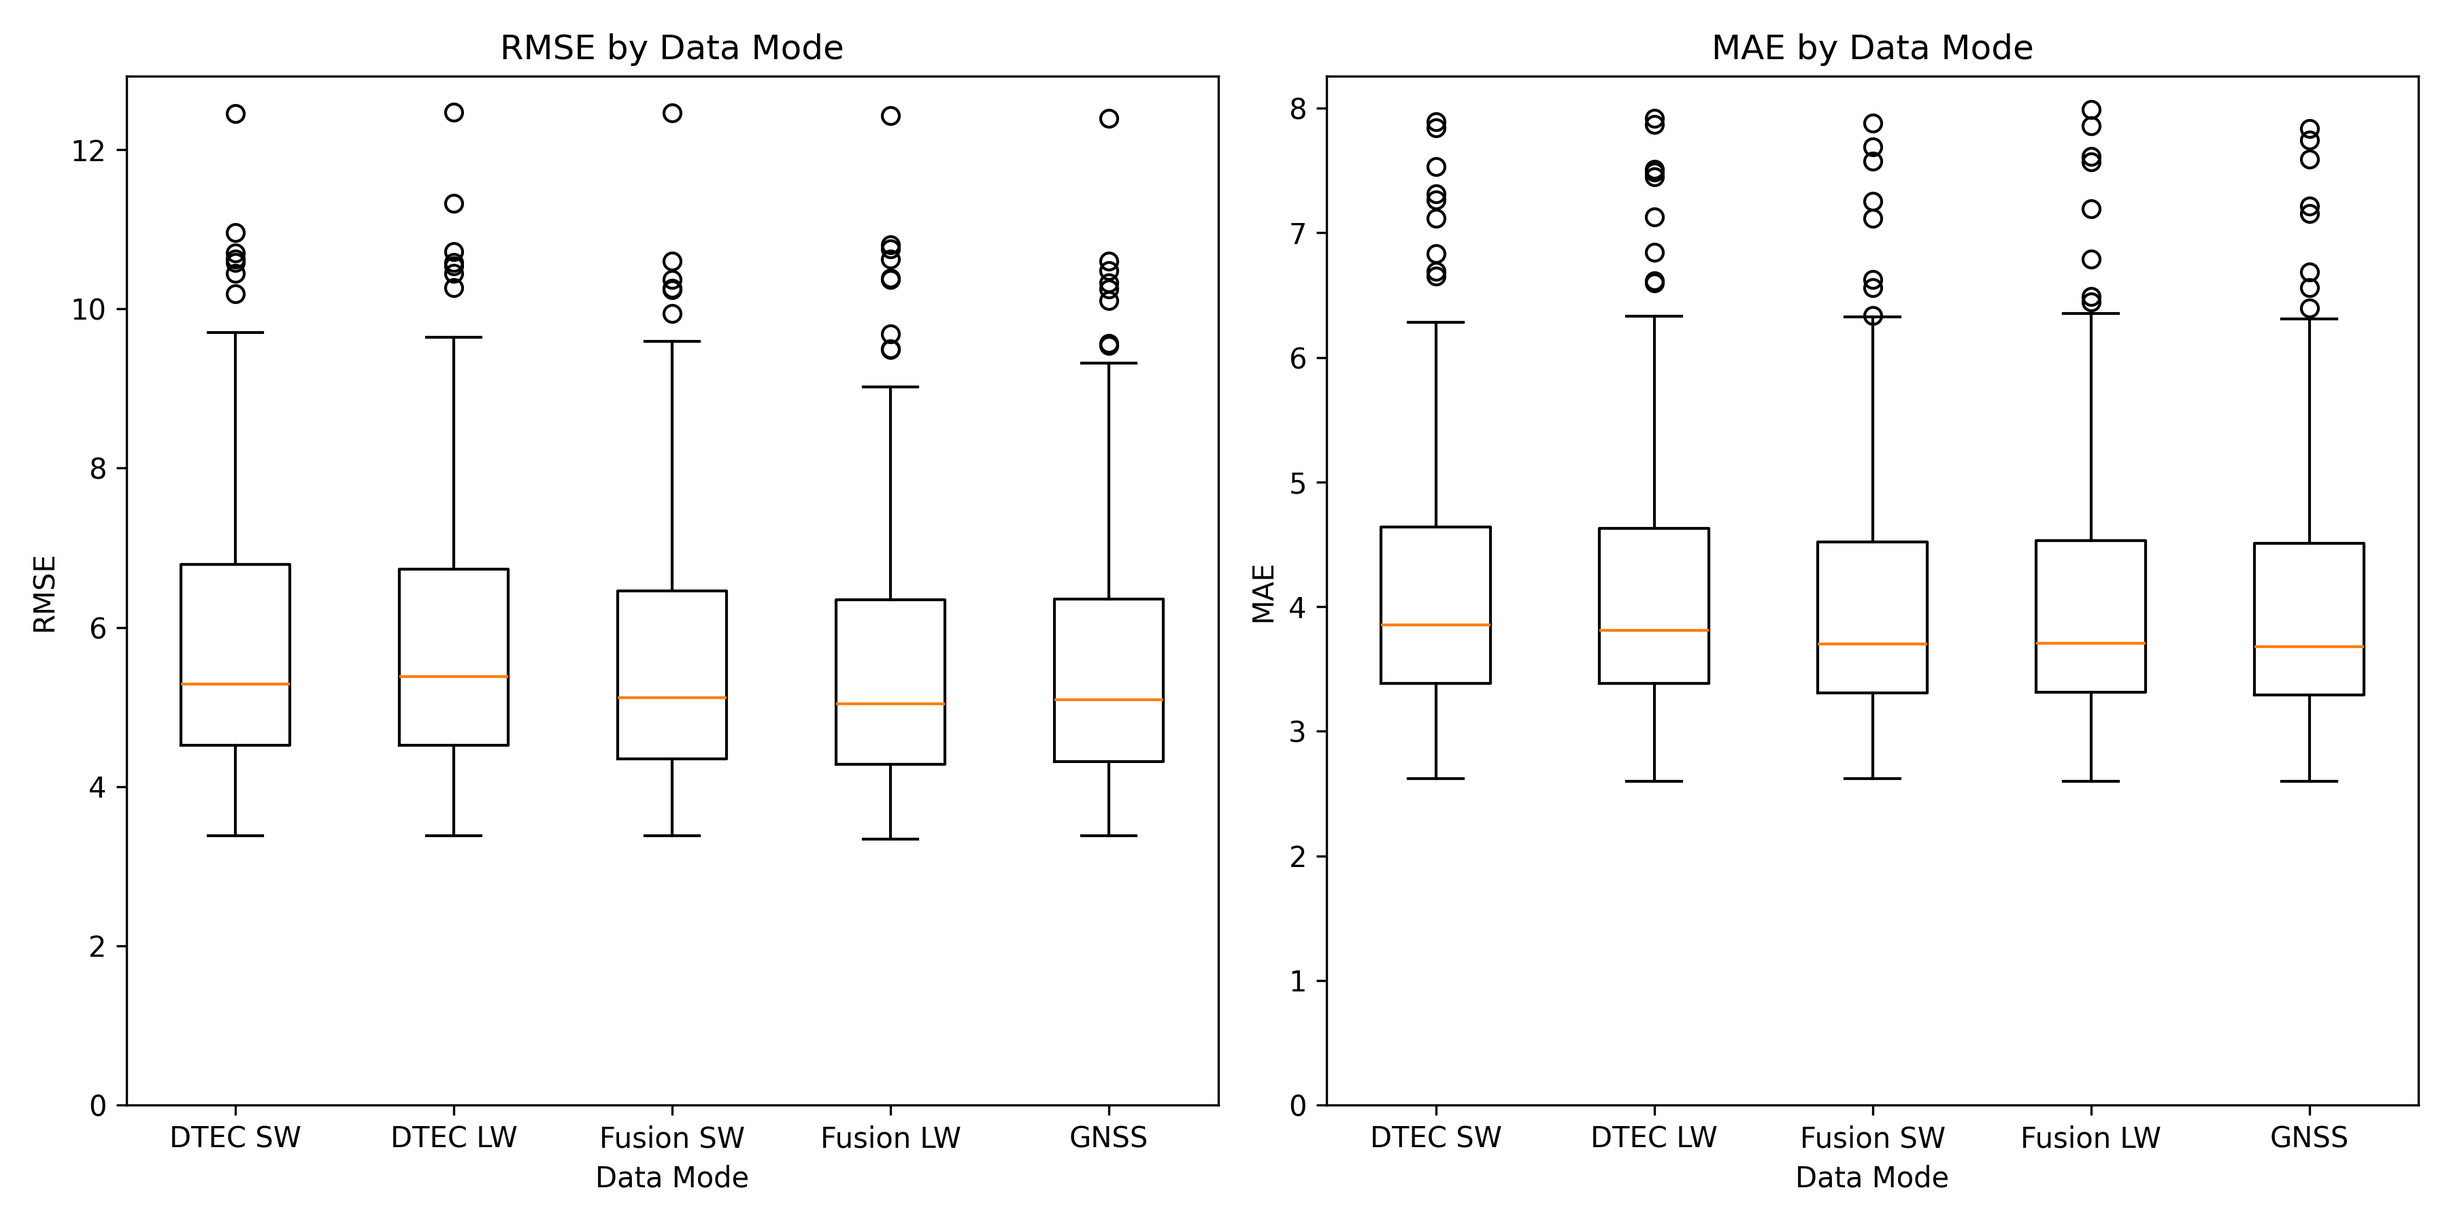
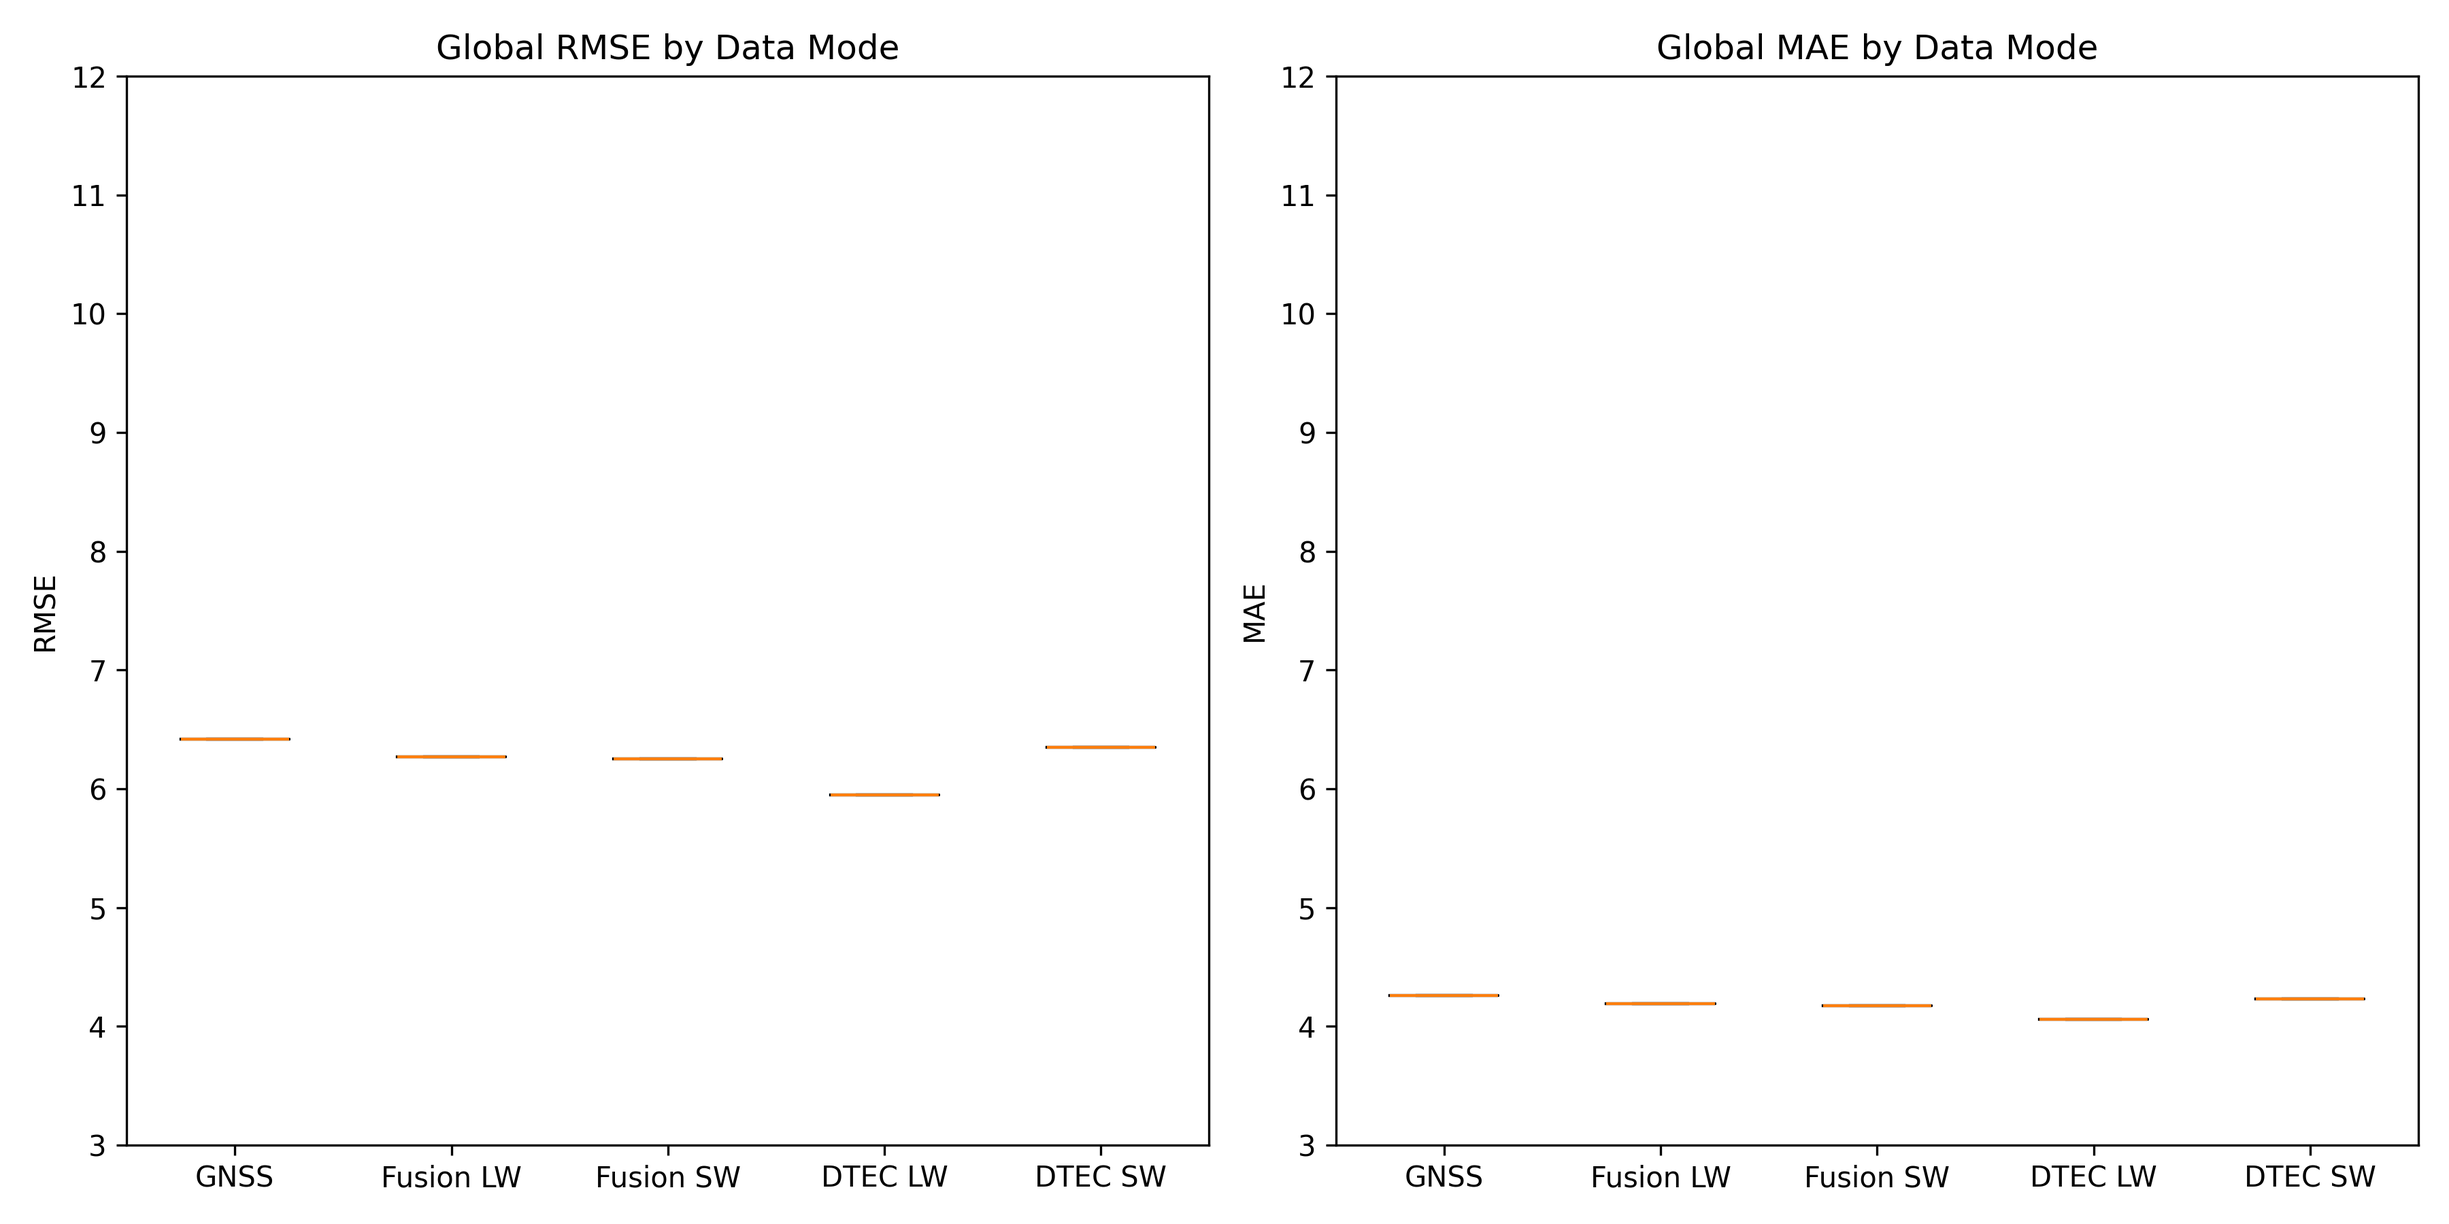
fixed evalwith SA and included Kokee evaluation

diff --git a/scripts/eval_SA_results.py b/scripts/eval_SA_results.py
@@ -3,6 +3,7 @@ import os
 import yaml
 import pandas as pd
 import numpy as np
+import re
 
 import matplotlib.pyplot as plt
 #import seaborn as sns
@@ -13,11 +14,40 @@ def read_config_file(folder, file_name):
         content = yaml.safe_load(file)
     return content
 
-def read_SA_csv(folder, file_name):
+def read_SA_metrics(folder, file_name):
+    """
+    Parse a metrics.txt with:
+      GLOBAL RMSE: <value>
+      GLOBAL MAE: <value>
+    PER-STATION METRICS (within <radius> km):
+        StationName: RMSE=<v>, MAE=<v>, N=<v>
+    Returns dict: 'global_rmse', 'global_mae', '<station>_rmse', '<station>_mae', '<station>_n'.
+    """
     file_path = os.path.join(folder, file_name)
-    with open(file_path, 'r') as file:
-        content = file.readlines()
-    return content
+    metrics = {}
+    with open(file_path, 'r') as f:
+        lines = [ln.strip() for ln in f if ln.strip()]
+
+    # globals
+    for ln in lines:
+        if ln.startswith('GLOBAL RMSE'):
+            metrics['global_rmse'] = float(ln.split(':',1)[1])
+        elif ln.startswith('GLOBAL MAE'):
+            metrics['global_mae'] = float(ln.split(':',1)[1])
+
+    # per-station
+    station_re = re.compile(r"^(\w+):\s*RMSE=([0-9.]+),\s*MAE=([0-9.]+),\s*N=(\d+)")
+    stations = []
+    for ln in lines:
+        m = station_re.match(ln)
+        if m:
+            name, rmse, mae, n = m.groups()
+            key = name.lower()
+            stations.append(key)
+            metrics[f"{key}_rmse"] = float(rmse)
+            metrics[f"{key}_mae"]  = float(mae)
+            metrics[f"{key}_n"]    = int(n)
+    return metrics, stations
 
 def read_experiment(experiment_folder, experiment_name):
 
@@ -25,29 +55,22 @@ def read_experiment(experiment_folder, experiment_name):
     SA_results_file_path = os.path.join(experiment_name, 'SA_plots', 'metrics.txt')
 
     config = read_config_file(experiment_folder, config_file_path)
-    SA_results = read_SA_csv(experiment_folder, SA_results_file_path)
-    SA_results = [line.split(':') for line in SA_results]
+    SA_results, stations = read_SA_metrics(experiment_folder, SA_results_file_path)
 
     df_row = pd.DataFrame({f"{key}_{subkey}" if isinstance(subdict, dict) else key: [value] 
                            for key, subdict in config.items() 
                            for subkey, value in (subdict.items() if isinstance(subdict, dict) else [(None, subdict)])})
 
-    df_row["RMSE"] = SA_results[0][1]
-    df_row["MAE"] = SA_results[1][1]
-
-    
+    df_row["global_RMSE"] = SA_results["global_rmse"]
+    df_row["global_MAE"] = SA_results["global_mae"]
+    for station in stations:
+        df_row[f"{station}_RMSE"] = SA_results.get(f"{station}_rmse", None)
+        df_row[f"{station}_MAE"] = SA_results.get(f"{station}_mae", None)
+        df_row[f"{station}_N"] = SA_results.get(f"{station}_n", 0)
 
     return df_row
 
-def filter_region(df, center_lat, center_lon, radius_deg):
-    return df[
-        (df.latitude  >= center_lat - radius_deg) &
-        (df.latitude  <= center_lat + radius_deg) &
-        (df.longitude >= center_lon - radius_deg) &
-        (df.longitude <= center_lon + radius_deg)
-    ]
-
-def evaluate(df):
+def evaluate_old(df):
     print("Number of experiments processed in total: ", len(df))
     # Define your grouping columns
     group_columns = ['data_mode', 'training_vlbi_loss_weight', 'training_vlbi_sampling_weight']
@@ -79,27 +102,27 @@ def evaluate(df):
     print("Number of experiments where all 5 scenarios were executed successfully: ", len(df))
 
     # Convert RMSE and MAE to numeric
-    df["RMSE"] = pd.to_numeric(df["RMSE"], errors='coerce')
-    df["MAE"] = pd.to_numeric(df["MAE"], errors='coerce')
+    df["global RMSE"] = pd.to_numeric(df["global RMSE"], errors='coerce')
+    df["global MAE"] = pd.to_numeric(df["global MAE"], errors='coerce')
 
     df_mode = df.groupby(['data_mode', 'training_vlbi_loss_weight', 'training_vlbi_sampling_weight'])
     
     # Define consistent bins and range for RMSE and MAE
-    bins_rmse = np.linspace(df['RMSE'].min(), df['RMSE'].max(), 20)
-    bins_mae = np.linspace(df['MAE'].min(), df['MAE'].max(), 20)
+    bins_rmse = np.linspace(df['global RMSE'].min(), df['global RMSE'].max(), 20)
+    bins_mae = np.linspace(df['global MAE'].min(), df['global MAE'].max(), 20)
 
     plt.figure(figsize=(14, 6))
 
     plt.subplot(1, 2, 1)
     for name, group in df_mode:
-        plt.hist(group['RMSE'], bins=bins_rmse, alpha=0.5, label=group_name_mapping[name], edgecolor='black')
+        plt.hist(group['global RMSE'], bins=bins_rmse, alpha=0.5, label=group_name_mapping[name], edgecolor='black')
     plt.title('RMSE by Data Mode')
     plt.xlabel('RMSE')
     plt.legend()
 
     plt.subplot(1, 2, 2)
     for name, group in df_mode:
-        plt.hist(group['MAE'], bins=bins_mae, alpha=0.5, label=group_name_mapping[name], edgecolor='black')
+        plt.hist(group['global MAE'], bins=bins_mae, alpha=0.5, label=group_name_mapping[name], edgecolor='black')
     plt.title('MAE by Data Mode')
     plt.xlabel('MAE')
     plt.legend()
@@ -114,13 +137,13 @@ def evaluate(df):
         mode_label = group_name_mapping.get(name, str(name))
         
         # RMSE subplot (left)
-        axes[i, 0].hist(group['RMSE'], bins=bins_rmse, alpha=0.6, label=f'{mode_label} RMSE', color='tab:blue', edgecolor='black')
+        axes[i, 0].hist(group['global RMSE'], bins=bins_rmse, alpha=0.6, label=f'{mode_label} RMSE', color='tab:blue', edgecolor='black')
         axes[i, 0].set_title(f'{mode_label} RMSE')
         axes[i, 0].set_ylabel('Frequency')
         axes[i, 0].legend()
 
         # MAE subplot (right)
-        axes[i, 1].hist(group['MAE'], bins=bins_mae, alpha=0.6, label=f'{mode_label} MAE', color='tab:orange', edgecolor='black')
+        axes[i, 1].hist(group['global MAE'], bins=bins_mae, alpha=0.6, label=f'{mode_label} MAE', color='tab:orange', edgecolor='black')
         axes[i, 1].set_title(f'{mode_label} MAE')
         axes[i, 1].legend()
 
@@ -135,7 +158,7 @@ def evaluate(df):
 
     # First subplot (RMSE)
     ax1 = plt.subplot(1, 2, 1)
-    data_rmse = [group['RMSE'].values for name, group in df_mode]
+    data_rmse = [group['global RMSE'].values for name, group in df_mode]
     plt.boxplot(data_rmse, tick_labels=[group_name_mapping[name] for name in df_mode.groups.keys()])
     ax1.set_ylim(bottom=0)
     plt.title('RMSE by Data Mode')
@@ -144,7 +167,7 @@ def evaluate(df):
 
     # Second subplot (MAE)
     ax2 = plt.subplot(1, 2, 2)
-    data_mae = [group['MAE'].values for name, group in df_mode]
+    data_mae = [group['global MAE'].values for name, group in df_mode]
     plt.boxplot(data_mae, tick_labels=[group_name_mapping[name] for name in df_mode.groups.keys()])
     ax2.set_ylim(bottom=0) 
     plt.title('MAE by Data Mode')
@@ -162,21 +185,93 @@ def evaluate(df):
     plt.tight_layout()
     plt.savefig('scripts/RMSE_MAE_boxplots_by_data_mode_nooutliers.png', dpi=300)
 
+def evaluate(df):
+    print("Number of experiments processed in total:", len(df))
+    group_columns = ['data_mode', 'training_vlbi_loss_weight', 'training_vlbi_sampling_weight']
+    expected = {('GNSS',1,1),('Fusion',1000,1),('Fusion',1,1000),('DTEC_Fusion',100,1),('DTEC_Fusion',1,100)}
+    name_map = {('GNSS',1,1):'GNSS',('Fusion',1000,1):'Fusion LW',('Fusion',1,1000):'Fusion SW',
+                ('DTEC_Fusion',100,1):'DTEC LW',('DTEC_Fusion',1,100):'DTEC SW'}
+    valid_doys = df.groupby('doy').filter(
+        lambda g: set(map(tuple, g[group_columns].values)) == expected
+    )['doy'].unique()
+    df = df[df['doy'].isin(valid_doys)]
+    print("Number of experiments where all 5 scenarios were executed successfully:", len(df))
+
+    # ensure numeric
+    df['global_RMSE'] = pd.to_numeric(df['global_RMSE'], errors='coerce')
+    df['global_MAE'] = pd.to_numeric(df['global_MAE'], errors='coerce')
+    stations = sorted([c[:-5] for c in df.columns if c.endswith('_RMSE') and c!='global_RMSE'])
+
+    df_mode = df.groupby(group_columns)
+
+    # Global histograms
+    bins_rmse = np.linspace(df['global_RMSE'].min(), df['global_RMSE'].max(), 20)
+    bins_mae = np.linspace(df['global_MAE'].min(), df['global_MAE'].max(), 20)
+    plt.figure(figsize=(14,6))
+    plt.subplot(1,2,1)
+    for name, grp in df_mode:
+        plt.hist(grp['global_RMSE'], bins=bins_rmse, alpha=0.5, label=name_map[name], edgecolor='black')
+    plt.title('Global RMSE by Data Mode'); plt.xlabel('RMSE'); plt.legend()
+    plt.subplot(1,2,2)
+    for name, grp in df_mode:
+        plt.hist(grp['global_MAE'], bins=bins_mae, alpha=0.5, label=name_map[name], edgecolor='black')
+    plt.title('Global MAE by Data Mode'); plt.xlabel('MAE'); plt.legend()
+    plt.tight_layout(); plt.savefig('scripts/RMSE_MAE_hist_by_data_mode.png', dpi=300); plt.close()
+
+    # Per-station histograms
+    for st in stations:
+        bins_st_rmse = np.linspace(df[f'{st}_RMSE'].min(), df[f'{st}_RMSE'].max(), 20)
+        bins_st_mae  = np.linspace(df[f'{st}_MAE'].min(),  df[f'{st}_MAE'].max(),  20)
+        plt.figure(figsize=(14,6))
+        plt.subplot(1,2,1)
+        for name, grp in df_mode:
+            plt.hist(grp[f'{st}_RMSE'], bins=bins_st_rmse, alpha=0.5, label=name_map[name], edgecolor='black')
+        plt.title(f'{st.capitalize()} RMSE by Data Mode'); plt.xlabel('RMSE'); plt.legend()
+        plt.subplot(1,2,2)
+        for name, grp in df_mode:
+            plt.hist(grp[f'{st}_MAE'], bins=bins_st_mae, alpha=0.5, label=name_map[name], edgecolor='black')
+        plt.title(f'{st.capitalize()} MAE by Data Mode'); plt.xlabel('MAE'); plt.legend()
+        plt.tight_layout(); plt.savefig(f'scripts/{st}_hist_by_data_mode.png', dpi=300); plt.close()
+
+    # Global boxplots
+    plt.figure(figsize=(12,6))
+    data_rmse = [grp['global_RMSE'].values for _,grp in df_mode]
+    data_mae  = [grp['global_MAE'].values  for _,grp in df_mode]
+    labels = list(name_map.values())
+    plt.subplot(1,2,1)
+    plt.boxplot(data_rmse, labels=labels); plt.title('Global RMSE by Data Mode'); plt.ylabel('RMSE')
+    plt.ylim(3, 12)
+    plt.subplot(1,2,2)
+    plt.boxplot(data_mae, labels=labels); plt.title('Global MAE by Data Mode'); plt.ylabel('MAE')
+    plt.ylim(3, 12) 
+    plt.tight_layout(); plt.savefig('scripts/RMSE_MAE_boxplots_by_data_mode.png', dpi=300)
+
+    # Global boxplots no outliers
+    plt.subplot(1,2,1); plt.ylim(3,12)
+    plt.subplot(1,2,2); plt.ylim(2,8)
+    plt.tight_layout(); plt.savefig('scripts/RMSE_MAE_boxplots_by_data_mode_nooutliers.png', dpi=300)
+
+    # Per-station boxplots
+    for st in stations:
+        data_s_rmse = [grp[f'{st}_RMSE'].values for _,grp in df_mode]
+        data_s_mae  = [grp[f'{st}_MAE'].values  for _,grp in df_mode]
+        plt.figure(figsize=(12,6))
+        plt.subplot(1,2,1)
+        plt.boxplot(data_s_rmse, labels=labels); plt.title(f'{st.capitalize()} RMSE by Data Mode')
+        plt.ylim(3, 12)
+        plt.subplot(1,2,2)
+        plt.boxplot(data_s_mae, labels=labels); plt.title(f'{st.capitalize()} MAE by Data Mode')
+        plt.ylim(3, 12) 
+        plt.tight_layout(); plt.savefig(f'scripts/{st}_box_by_data_mode.png', dpi=300)
+
+
 def main():
     """
     Main function to orchestrate the evaluation process.
     """
 
-    STATION_COORDS = {
-        'Kokee': (22.126, -159.665),
-        # add more stations if needed
-    }
-
-    # 2) Region constants
-    KOKEE_LAT, KOKEE_LON = STATION_COORDS['Kokee']
-    BBOX_RADIUS_DEG = 1.0  # half‐width of your bounding‐box in degrees
-
     experiments_folder = '/cluster/work/igp_psr/arrueegg/WP2/GIM_fusion_VLBI/experiments/'
+    experiments_folder = '/scratch2/arrueegg/WP2/GIM_fusion_VLBI/experiments/'
     
     df = pd.DataFrame()
     for experiment_name in os.listdir(experiments_folder):
@@ -188,14 +283,6 @@ def main():
     
     # Print or save the evaluation results
     print(evaluation_results)
-
-    df_kokee = filter_region(df, KOKEE_LAT, KOKEE_LON, BBOX_RADIUS_DEG)
-    # Evaluate only that subset
-    eval_sta_results = evaluate(df_kokee)
-
-    # Print or save the evaluation results for Kokee
-    print("Evaluation results for Kokee station:")
-    print(eval_sta_results)
 
 if __name__ == "__main__":
     main()

diff --git a/src/eval_with_SA.py b/src/eval_with_SA.py
@@ -1,4 +1,4 @@
-from math import e
+from math import radians, sin, cos, sqrt, atan2
 import pandas as pd
 import numpy as np
 import torch
@@ -10,6 +10,24 @@ from utils.config_parser import parse_config
 from models.model import get_model
 import warnings
 warnings.filterwarnings("ignore")
+
+STATION_COORDS = {
+    'Kokee':   (22.14, -159.64),
+    # add more stations here…
+}
+RADIUS_KM = 1000.0  # buffer around each station
+
+def haversine(lat1, lon1, lat2, lon2):
+    """
+    Compute the great-circle distance between two points on Earth (km).
+    """
+    R = 6371.0  # Earth radius in km
+    phi1, phi2 = np.radians(lat1), np.radians(lat2)
+    deltaphi = np.radians(lat2 - lat1)
+    deltalambda = np.radians(lon2 - lon1)
+    a = np.sin(deltaphi/2)**2 + np.cos(phi1)*np.cos(phi2)*np.sin(deltalambda/2)**2
+    c = 2 * np.arctan2(np.sqrt(a), np.sqrt(1 - a))
+    return R * c
 
 def load_data(csv_file, doy):
     """
@@ -118,30 +136,43 @@ def plot_results(config, results, metrics):
 
 def calculate_metrics(config, results):
     """
-    Calculate evaluation metrics for model predictions.
-
-    Writes both global and per-station RMSE/MAE to metrics.txt
-    and also saves a station_metrics.csv for easy ingestion.
+    Calculate global + per-station RMSE/MAE based on a distance filter.
+    Writes metrics.txt and station_metrics.csv under SA_plots.
     """
     # 1) Global metrics
-    rmse_global = np.sqrt(np.mean((results['model_prediction'] - results['vtec']) ** 2))
+    rmse_global = np.sqrt(np.mean((results['model_prediction'] - results['vtec'])**2))
     mae_global  = np.mean(np.abs(results['model_prediction'] - results['vtec']))
     rmse_global, mae_global = round(rmse_global, 2), round(mae_global, 2)
 
     # 2) Per-station metrics
     station_rows = []
-    for station, grp in results.groupby('station'):
-        rmse_s = np.sqrt(np.mean((grp['model_prediction'] - grp['vtec'])**2))
-        mae_s  = np.mean(np.abs(  grp['model_prediction'] - grp['vtec']))
+    # for each station, compute distances to all points,
+    # filter by RADIUS_KM, then compute metrics
+    for station, (slat, slon) in STATION_COORDS.items():
+        # vectorized haversine across the DataFrame
+        dists = haversine(
+            slat, slon,
+            results['lat'].values,
+            results['lon'].values
+        )
+        mask = dists <= RADIUS_KM
+        subset = results[mask]
+
+        if not subset.empty:
+            rmse_s = np.sqrt(np.mean((subset['model_prediction'] - subset['vtec'])**2))
+            mae_s  = np.mean(np.abs(subset['model_prediction'] - subset['vtec']))
+            count = len(subset)
+        else:
+            rmse_s, mae_s, count = np.nan, np.nan, 0
+
         station_rows.append({
             'station': station,
-            'RMSE': round(rmse_s, 2),
-            'MAE':  round(mae_s,  2),
-            'count': len(grp)
+            'RMSE':    round(rmse_s, 2) if not np.isnan(rmse_s) else None,
+            'MAE':     round(mae_s, 2)  if not np.isnan(mae_s) else None,
+            'count':   count
         })
 
-    # Turn into DataFrame and sort
-    df_stats = pd.DataFrame(station_rows).sort_values('RMSE', ascending=False)
+    df_stats = pd.DataFrame(station_rows).sort_values('RMSE', ascending=False, na_position='last')
 
     # 3) Write metrics.txt
     out_dir = os.path.join(config['output_dir'], 'SA_plots')
@@ -150,11 +181,11 @@ def calculate_metrics(config, results):
     with open(metrics_path, 'w') as f:
         f.write(f"GLOBAL RMSE: {rmse_global}\n")
         f.write(f"GLOBAL MAE: {mae_global}\n\n")
-        f.write("STATION-BASED METRICS (sorted by RMSE):\n")
+        f.write("PER-STATION METRICS (within {} km):\n".format(RADIUS_KM))
         for _, row in df_stats.iterrows():
-            f.write(f"  {row.station}: RMSE={row.RMSE}, MAE={row.MAE}, N={row.count}\n")
+            f.write(f"  {row.station}: RMSE={row.RMSE}, MAE={row.MAE}, N={row['count']}\n")
 
-    # 4) Also dump a CSV for further analysis/plotting
+    # 4) Dump station_metrics.csv
     csv_path = os.path.join(out_dir, 'station_metrics.csv')
     df_stats.to_csv(csv_path, index=False)
 
